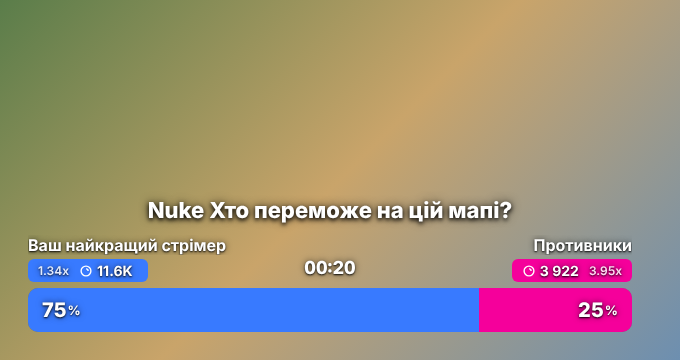
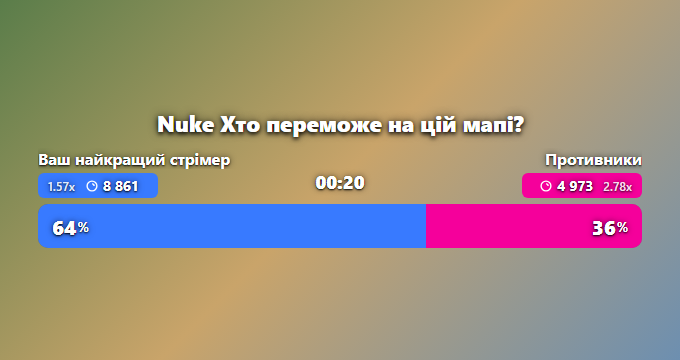
feat(widget): center card in source
Card was pinned to the bottom-left in sources wider than 660px.
Add lifecycle checks for centering and results headroom.

diff --git a/widget.html b/widget.html
@@ -18,7 +18,7 @@
     color: var(--text);
     padding: 10px;
     height: 100vh;
-    display: flex; flex-direction: column; justify-content: flex-end;
+    display: flex; flex-direction: column; justify-content: center; align-items: center;
     text-shadow: 0 1px 2px rgba(0,0,0,.9), 0 0 6px rgba(0,0,0,.6);
   }
   #card {

diff --git a/tests/test_lifecycle.py b/tests/test_lifecycle.py
@@ -54,6 +54,9 @@ async def main():
         await pg.wait_for_timeout(300)
         check("знову видимий після end", await vis())
         check("списки результатів показані", await pg.evaluate("document.getElementById('results').classList.contains('on')"))
+        # картка по центру: списки над нею не мають вилазити за верх джерела 680×360 (offsetTop ігнорує transform)
+        rtop = await pg.evaluate("card.offsetTop + document.getElementById('results').offsetTop")
+        check(f"списки вміщаються над карткою (top={rtop})", rtop >= 0)
         await pg.wait_for_timeout(3000); check("схований після результатів", not await vis())
 
         # 5. timer reaches 0 without lock event -> hides
@@ -67,6 +70,11 @@ async def main():
         await pg.evaluate("onEnd({id:'c',status:'canceled',winning_outcome_id:null,outcomes:[{id:'a'},{id:'b'}]})")
         await pg.wait_for_timeout(200)
         check("скасування показує банер", await pg.evaluate("document.getElementById('banner').classList.contains('on')"))
+
+        # 7. велике джерело (повний екран) -> картка в центрі
+        await pg.set_viewport_size({"width": 1280, "height": 720})
+        cx, cy = await pg.evaluate("[card.offsetLeft + card.offsetWidth / 2, card.offsetTop + card.offsetHeight / 2]")
+        check(f"картка в центрі 1280×720 ({cx:.0f}, {cy:.0f})", abs(cx - 640) <= 2 and abs(cy - 360) <= 2)
 
         check("немає JS-помилок " + str(errs), not errs)
         await b.close()

diff --git a/README.md b/README.md
@@ -30,6 +30,7 @@
 4. Браузер відкриє `http://localhost/#access_token=…`. Сторінка покаже помилку, це нормально. Скопіюйте всю адресу і вставте її в `setup.html`.
 5. Налаштуйте параметри і натисніть «Згенерувати посилання для OBS».
 6. В OBS додайте джерело **Браузер**: зніміть галочку «Локальний файл», вставте URL, розмір **660×360** (для 3+ варіантів близько 660×460) і увімкніть **«Керувати аудіо через OBS»**.
+   Віджет стоїть по центру джерела, тому джерело на весь екран (1920×1080) покаже його посередині екрана. Списки результатів виринають над карткою: якщо збільшуєте `rows` або маєте 4+ варіанти, додайте джерелу висоти.
 
 > ⚠ Посилання містить OAuth-токен. Не показуйте його і не комітьте. Токен живе близько 60 днів, після чого кроки 3–5 треба повторити.
 

diff --git a/PROGRESS.md b/PROGRESS.md
@@ -32,6 +32,10 @@
 - LOCKED-прогноз при старті OBS не показується.
 - Додано `tests/test_lifecycle.py` і `tests/screenshots.py`.
 
+### v0.6: віджет по центру
+- Картка стоїть по центру джерела (горизонтально й вертикально), а не в лівому нижньому куті. Джерело на весь екран показує віджет посередині.
+- У тест додано перевірки: картка в центрі 1280×720, списки результатів вміщаються над карткою в 680×360.
+
 ## Беклог / ідеї
 - [ ] **Перевірити на реальному каналі**: прогноз з 2 і з 3+ варіантами, ручне закриття, скасування, перезапуск OBS посеред прогнозу.
 - [ ] Звірити семантику `channel_points_won`: чи це повна виплата (ставка + прибуток), чи лише прибуток. Зараз у списку «Виграли» показується значення як є.
